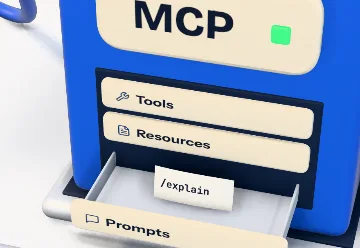
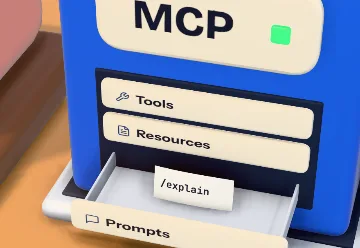
Keep the page inside a phone's memory budget, and let the site build with the lab in it
Batches keep indexed parts indexed, rounded boxes default to two segments a corner, and the new places' small repeated
parts, segment counts and bevels are lighter, as are the islands' and the long belt's legs: geometry is back under
100 MB. The lab is prerendered as an empty shell so the static build passes. The finale's stop signs stand apart, and
the MCP trip's thumbnail is rebaked from the new desk.

diff --git a/src/lib/journey/sky/tower.ts b/src/lib/journey/sky/tower.ts
@@ -74,7 +74,7 @@ function petal(h: number, w: number) {
 	s.bezierCurveTo(w * 0.32, h * 0.86, w * 0.78, h * 0.5, w * 0.42, h * 0.28);
 	s.bezierCurveTo(w * 0.3, h * 0.16, w * 0.5, h * 0.06, w / 2, 0);
 	s.closePath();
-	return extrude(s, 0.36, 0.12, 4, 28);
+	return extrude(s, 0.36, 0.12, 2, 9);
 }
 
 export class Tower {
@@ -94,7 +94,7 @@ export class Tower {
 
 		// The plinth it stands on: a low silver step with a brass bead round it.
 		this.lathe(b, [[SHAFT_R, -0.42], [R + 1.0, -0.42], [R + 1.15, -0.32], [R + 1.15, -0.1], [R + 1.1, 0.02], [SHAFT_R, 0.02]], c.silver);
-		b.add(new THREE.TorusGeometry(R + 1.15, 0.05, 8, 128), c.brass, { p: [0, -0.1, 0], r: [Math.PI / 2, 0, 0] });
+		b.add(new THREE.TorusGeometry(R + 1.15, 0.05, 8, 64), c.brass, { p: [0, -0.1, 0], r: [Math.PI / 2, 0, 0] });
 
 		for (let f = 0; f <= N; f++) {
 			const y = f * H;
@@ -103,7 +103,7 @@ export class Tower {
 			const t = roof ? ROOF - N * H : SLAB;
 			const y0 = roof ? y : y - t / 2;
 			this.lathe(b, [[SHAFT_R + 0.04, y0], [R + 0.32, y0], [R + 0.42, y0 + 0.07], [R + 0.42, y0 + t - 0.07], [R + 0.32, y0 + t], [SHAFT_R + 0.04, y0 + t]], c.silver);
-			b.add(new THREE.TorusGeometry(R + 0.43, 0.05, 8, 128), c.brass, { p: [0, y0 + t / 2, 0], r: [Math.PI / 2, 0, 0] });
+			b.add(new THREE.TorusGeometry(R + 0.43, 0.05, 8, 64), c.brass, { p: [0, y0 + t / 2, 0], r: [Math.PI / 2, 0, 0] });
 			if (roof) break;
 			const top = y + H - SLAB / 2;
 			const bottom = y + SLAB / 2;
@@ -112,14 +112,14 @@ export class Tower {
 			b.add(new THREE.RingGeometry(SHAFT_R + 0.04, R - 0.1, 96), floorFinish, { p: [0, bottom + 0.005, 0], r: [-Math.PI / 2, 0, 0] });
 			b.add(new THREE.RingGeometry(SHAFT_R + 0.5, SHAFT_R + 0.62, 96), c.gold, { p: [0, bottom + 0.01, 0], r: [-Math.PI / 2, 0, 0] });
 			// The glass, tinted the cobalt of the racks behind it, all the way round but for the slot.
-			b.add(new THREE.CylinderGeometry(R, R, room, 128, 1, true, SLOT, Math.PI * 2 - 2 * SLOT), c.rackGlass, { p: [0, bottom + room / 2, 0] });
+			b.add(new THREE.CylinderGeometry(R, R, room, 48, 1, true, SLOT, Math.PI * 2 - 2 * SLOT), c.rackGlass, { p: [0, bottom + room / 2, 0] });
 			// The mullions, midnight-blue enamel, each with a brass cap and foot; the slot's two are silver.
 			const mullions = 26;
 			for (let i = 0; i < mullions; i++) {
 				const a = ((i + 0.5) / mullions) * Math.PI * 2;
 				if (inSlot(a, 0.05)) continue;
-				b.add(rbox(0.46, room, 0.5, 0.14), c.midnight, { p: round(R + 0.08, a, bottom + room / 2), r: [0, a, 0] });
-				for (const at of [bottom + 0.08, top - 0.08]) b.add(rbox(0.56, 0.12, 0.58, 0.04), c.brass, { p: round(R + 0.08, a, at), r: [0, a, 0] });
+				b.add(new THREE.BoxGeometry(0.46, room, 0.5), c.midnight, { p: round(R + 0.08, a, bottom + room / 2), r: [0, a, 0] });
+				for (const at of [bottom + 0.08, top - 0.08]) b.add(new THREE.BoxGeometry(0.56, 0.12, 0.58), c.brass, { p: round(R + 0.08, a, at), r: [0, a, 0] });
 			}
 			// The racks: a ring round the room, their doors lit, none in front of the shaft.
 			const rackH = room - 0.75;
@@ -129,21 +129,21 @@ export class Tower {
 				// Leave the ground floor's front open for the lanes coming in.
 				if (f === 0 && inSlot(a, 0.6)) continue;
 				const mid = bottom + 0.12 + rackH / 2;
-				b.add(rbox(RACK.w, rackH, RACK.d, 0.06), rackBody, { p: round(RACK.r, a, mid), r: [0, a, 0] });
+				b.add(rbox(RACK.w, rackH, RACK.d, 0.06, 1), rackBody, { p: round(RACK.r, a, mid), r: [0, a, 0] });
 				// A lit door on both faces: one out through the glass, one into the room round the shaft.
 				b.add(new THREE.PlaneGeometry(RACK.w - 0.18, rackH - 0.22), this.doors, { p: round(RACK.r + RACK.d / 2 + 0.006, a, mid), r: [0, a, 0] });
 				b.add(new THREE.PlaneGeometry(RACK.w - 0.18, rackH - 0.22), this.doors, { p: round(RACK.r - RACK.d / 2 - 0.006, a, mid), r: [0, a + Math.PI, 0] });
-				b.add(rbox(0.05, rackH * 0.5, 0.06, 0.02), c.brass, { p: round(RACK.r + RACK.d / 2 + 0.04, a + 0.085, mid), r: [0, a, 0] });
-				b.add(rbox(RACK.w, 0.1, RACK.d + 0.04, 0.03), c.silver, { p: round(RACK.r, a, bottom + 0.06), r: [0, a, 0] });
+				b.add(rbox(0.05, rackH * 0.5, 0.06, 0.02, 1), c.brass, { p: round(RACK.r + RACK.d / 2 + 0.04, a + 0.085, mid), r: [0, a, 0] });
+				b.add(rbox(RACK.w, 0.1, RACK.d + 0.04, 0.03, 1), c.silver, { p: round(RACK.r, a, bottom + 0.06), r: [0, a, 0] });
 			}
 			// Brass cable trays under the ceiling: a ring over the racks and spokes in to the shaft.
 			const tray = top - 0.32;
-			b.add(new THREE.TorusGeometry(RACK.r, 0.07, 8, 96), c.brass, { p: [0, tray, 0], r: [Math.PI / 2, 0, 0] });
-			b.add(new THREE.TorusGeometry(RACK.r - 0.35, 0.07, 8, 96), c.brass, { p: [0, tray, 0], r: [Math.PI / 2, 0, 0] });
+			b.add(new THREE.TorusGeometry(RACK.r, 0.07, 8, 64), c.brass, { p: [0, tray, 0], r: [Math.PI / 2, 0, 0] });
+			b.add(new THREE.TorusGeometry(RACK.r - 0.35, 0.07, 8, 64), c.brass, { p: [0, tray, 0], r: [Math.PI / 2, 0, 0] });
 			for (let i = 0; i < 6; i++) {
 				const a = (i / 6) * Math.PI * 2 + Math.PI / 6;
 				const span = RACK.r - SHAFT_R - 0.2;
-				b.add(rbox(0.14, 0.06, span, 0.02), c.brass, { p: round(SHAFT_R + 0.1 + span / 2, a, tray), r: [0, a, 0] });
+				b.add(rbox(0.14, 0.06, span, 0.02, 1), c.brass, { p: round(SHAFT_R + 0.1 + span / 2, a, tray), r: [0, a, 0] });
 			}
 			// The ceiling's lamps, a ring of them between the trays and the shaft.
 			for (let i = 0; i < 10; i++) {
@@ -155,13 +155,13 @@ export class Tower {
 		// The slot's silver frame, from the plinth to the roof, either side of the gap in the glass.
 		for (const s of [-1, 1]) {
 			const a = s * (SLOT + 0.012);
-			b.add(rbox(0.26, ROOF, 0.56, 0.08), c.silver, { p: round(R + 0.12, a, ROOF / 2), r: [0, a, 0] });
+			b.add(rbox(0.26, ROOF, 0.56, 0.08, 2), c.silver, { p: round(R + 0.12, a, ROOF / 2), r: [0, a, 0] });
 		}
 
 		// The shaft: an open chrome frame at its foot, where the lanes come in, and a glass tube from there to the roof,
 		// ringed in chrome at every floor.
 		const tubeH = ROOF - FRAME;
-		b.add(new THREE.CylinderGeometry(SHAFT_R, SHAFT_R, tubeH, 64, 1, true), c.glass, { p: [0, FRAME + tubeH / 2, 0] });
+		b.add(new THREE.CylinderGeometry(SHAFT_R, SHAFT_R, tubeH, 48, 1, true), c.glass, { p: [0, FRAME + tubeH / 2, 0] });
 		for (const y of [FRAME, ...Array.from({ length: N - 1 }, (_, f) => (f + 1) * H)]) b.add(new THREE.TorusGeometry(SHAFT_R + 0.03, 0.08, 10, 64), c.chrome, { p: [0, y, 0], r: [Math.PI / 2, 0, 0] });
 		b.add(new THREE.TorusGeometry(SHAFT_R + 0.06, 0.09, 10, 64), c.chrome, { p: [0, 0.1, 0], r: [Math.PI / 2, 0, 0] });
 		// Three posts carry the tube over the open foot: either side and behind, clear of the lanes coming in at the front.
@@ -174,8 +174,8 @@ export class Tower {
 		// Petals in two rings, tall ones behind and short ones before them in the gaps, so the crown reads as one solid ring
 		// of flame from anywhere; none over the slot, so the lanes are seen going up into the pedestal.
 		const petals = 26;
-		b.add(new THREE.TorusGeometry(P.CROWN.r, 0.2, 14, 160), c.gold, { p: [0, ROOF + 0.18, 0], r: [Math.PI / 2, 0, 0] });
-		b.add(new THREE.TorusGeometry(P.CROWN.r - 0.55, 0.12, 12, 160), c.gold, { p: [0, ROOF + 0.12, 0], r: [Math.PI / 2, 0, 0] });
+		b.add(new THREE.TorusGeometry(P.CROWN.r, 0.2, 10, 64), c.gold, { p: [0, ROOF + 0.18, 0], r: [Math.PI / 2, 0, 0] });
+		b.add(new THREE.TorusGeometry(P.CROWN.r - 0.55, 0.12, 10, 64), c.gold, { p: [0, ROOF + 0.12, 0], r: [Math.PI / 2, 0, 0] });
 		const tall = petal(P.CROWN.h, 1.25);
 		const short = petal(P.CROWN.h * 0.68, 1.0);
 		for (let i = 0; i < petals; i++) {
@@ -190,7 +190,7 @@ export class Tower {
 
 	/** A turned part round the tower's axis, from an outline of (radius, height) pairs: out along its underside, up its edge, in across its top. */
 	private lathe(b: Batch, outline: [number, number][], mat: THREE.Material) {
-		b.add(new THREE.LatheGeometry(outline.map(([r, y]) => new THREE.Vector2(r, y)), 128), mat);
+		b.add(new THREE.LatheGeometry(outline.map(([r, y]) => new THREE.Vector2(r, y)), 72), mat);
 	}
 
 	/** The racks' lights run on and breathe; brighter while the work is heavy. */

diff --git a/src/lib/journey/sky/gatehouse.ts b/src/lib/journey/sky/gatehouse.ts
@@ -83,14 +83,14 @@ export class Gatehouse {
 		outline.lineTo(W / 2, WALL);
 		outline.lineTo(-W / 2, WALL);
 		outline.closePath();
-		b.add(extrude(outline, D, 0.08, 3, 48), c.jade);
+		b.add(extrude(outline, D, 0.08, 2, 24), c.jade);
 		// A brass plinth band along its foot, and a cornice along its top.
 		b.add(rbox(W + 0.3, 0.32, D + 0.3, 0.08), c.brass, { p: [0, 0.16, 0] });
 		b.add(rbox(W + 0.5, 0.26, D + 0.5, 0.08), c.brass, { p: [0, WALL + 0.13, 0] });
 
 		// The archivolt, front and back: a thick brass band round the arch, brass jambs down to the floor, rivets all round.
 		for (const z of [D / 2 + 0.12, -D / 2 - 0.12]) {
-			b.add(new THREE.TorusGeometry(DOOR.w / 2 + 0.28, 0.26, 16, 72, Math.PI), c.brass, { p: [0, DOOR.spring, z] });
+			b.add(new THREE.TorusGeometry(DOOR.w / 2 + 0.28, 0.26, 10, 64, Math.PI), c.brass, { p: [0, DOOR.spring, z] });
 			for (const s of [-1, 1]) b.add(new THREE.CylinderGeometry(0.26, 0.3, DOOR.spring, 24), c.brass, { p: [s * (DOOR.w / 2 + 0.28), DOOR.spring / 2, z] });
 			for (let i = 0; i <= 14; i++) {
 				const a = (i / 14) * Math.PI;
@@ -105,15 +105,15 @@ export class Gatehouse {
 		ped.moveTo(-3.2, 0);
 		ped.quadraticCurveTo(0, 2.2, 3.2, 0);
 		ped.closePath();
-		b.add(extrude(ped, 1.2, 0.08, 3, 32), c.jadeDeep, { p: [0, WALL + 0.26, D / 2 - 0.6] });
-		b.add(new THREE.TorusGeometry(0.62, 0.1, 12, 48), c.brass, { p: [0, WALL + 0.85, D / 2 + 0.06] });
+		b.add(extrude(ped, 1.2, 0.08, 2, 24), c.jadeDeep, { p: [0, WALL + 0.26, D / 2 - 0.6] });
+		b.add(new THREE.TorusGeometry(0.62, 0.1, 10, 48), c.brass, { p: [0, WALL + 0.85, D / 2 + 0.06] });
 		b.add(new THREE.CylinderGeometry(0.52, 0.52, 0.12, 40), c.brass, { p: [0, WALL + 0.85, D / 2 + 0.02], r: [Math.PI / 2, 0, 0] });
 		b.add(new THREE.CylinderGeometry(0.3, 0.3, 0.16, 32), c.jade, { p: [0, WALL + 0.85, D / 2 + 0.06], r: [Math.PI / 2, 0, 0] });
 
 		// The glass dome behind it, on a brass drum, with brass ribs and a finial.
 		const domeAt = new THREE.Vector3(0, WALL + 0.26, -0.3);
-		b.add(new THREE.CylinderGeometry(2.1, 2.1, 0.5, 64), c.brass, { p: [domeAt.x, domeAt.y + 0.25, domeAt.z] });
-		b.add(new THREE.SphereGeometry(2.0, 48, 20, 0, Math.PI * 2, 0, Math.PI / 2), c.glass, { p: [domeAt.x, domeAt.y + 0.5, domeAt.z] });
+		b.add(new THREE.CylinderGeometry(2.1, 2.1, 0.5, 48), c.brass, { p: [domeAt.x, domeAt.y + 0.25, domeAt.z] });
+		b.add(new THREE.SphereGeometry(2.0, 28, 14, 0, Math.PI * 2, 0, Math.PI / 2), c.glass, { p: [domeAt.x, domeAt.y + 0.5, domeAt.z] });
 		for (let i = 0; i < 8; i++) {
 			const rib = new THREE.TorusGeometry(2.0, 0.05, 8, 32, Math.PI / 2);
 			b.add(rib, c.brass, { p: [domeAt.x, domeAt.y + 0.5, domeAt.z], r: [0, (i / 8) * Math.PI * 2, Math.PI / 2] });
@@ -130,7 +130,7 @@ export class Gatehouse {
 			b.add(extrude(windowPanel(0.9, 1.9), 0.08, 0.02, 2, 12), c.amberWindow, { p: [x, 1.4, z + TOWER.r - 0.02] });
 			b.add(new THREE.TorusGeometry(0.47, 0.06, 8, 32, Math.PI), c.brass, { p: [x, 1.4 + 1.9 - 0.45, z + TOWER.r + 0.02] });
 			b.add(new THREE.CylinderGeometry(TOWER.r + 0.15, TOWER.r + 0.15, 0.3, 48), c.brass, { p: [x, TOWER.h + 0.15, z] });
-			b.add(new THREE.SphereGeometry(TOWER.r, 40, 18, 0, Math.PI * 2, 0, Math.PI / 2), c.brass, { p: [x, TOWER.h + 0.3, z] });
+			b.add(new THREE.SphereGeometry(TOWER.r, 28, 14, 0, Math.PI * 2, 0, Math.PI / 2), c.brass, { p: [x, TOWER.h + 0.3, z] });
 			b.add(new THREE.CylinderGeometry(0.06, 0.1, 0.7, 12), c.gold, { p: [x, TOWER.h + 0.3 + TOWER.r + 0.3, z] });
 			b.add(new THREE.SphereGeometry(0.2, 16, 12), c.gold, { p: [x, TOWER.h + 0.3 + TOWER.r + 0.7, z] });
 			// A round window high on the front, and an arched one low, between the arch and the tower.

diff --git a/src/lib/journey/sky/proving.ts b/src/lib/journey/sky/proving.ts
@@ -30,10 +30,10 @@ export class Proving {
 		const ground = new Batch();
 
 		// The deck: mint enamel on a porcelain drum that tapers under it, a gold edge, a brass railing.
-		b.add(new THREE.CylinderGeometry(R, R, 0.3, 96), c.mintEnamel, { p: [0, -0.15, 0] });
-		b.add(new THREE.CylinderGeometry(R + 0.12, R - 0.4, 0.9, 96), c.porcelain, { p: [0, -0.75, 0] });
-		b.add(new THREE.TorusGeometry(R + 0.06, 0.08, 10, 128), c.gold, { p: [0, -0.32, 0], r: [Math.PI / 2, 0, 0] });
-		b.add(new THREE.TorusGeometry(R - 0.25, 0.04, 6, 128), c.brass, { p: [0, 0.75, 0], r: [Math.PI / 2, 0, 0] });
+		b.add(new THREE.CylinderGeometry(R, R, 0.3, 48), c.mintEnamel, { p: [0, -0.15, 0] });
+		b.add(new THREE.CylinderGeometry(R + 0.12, R - 0.4, 0.9, 48), c.porcelain, { p: [0, -0.75, 0] });
+		b.add(new THREE.TorusGeometry(R + 0.06, 0.08, 10, 64), c.gold, { p: [0, -0.32, 0], r: [Math.PI / 2, 0, 0] });
+		b.add(new THREE.TorusGeometry(R - 0.25, 0.04, 6, 64), c.brass, { p: [0, 0.75, 0], r: [Math.PI / 2, 0, 0] });
 		for (let i = 0; i < 40; i++) {
 			const a = (i / 40) * Math.PI * 2;
 			b.add(new THREE.CylinderGeometry(0.03, 0.03, 0.75, 6), c.brass, { p: [(R - 0.25) * Math.cos(a), 0.38, (R - 0.25) * Math.sin(a)] });
@@ -47,7 +47,7 @@ export class Proving {
 		for (let i = 0; i < 4; i++) span(ground, corners[i], corners[(i + 1) % 4], 1.4, pier, 'pier');
 
 		// The course: a white oval track inside a white ring, a dashed line between, all let into the enamel.
-		const line = (r: number, w = 0.12) => b.add(new THREE.RingGeometry(r - w / 2, r + w / 2, 128), c.white, { p: [0, 0.006, 0], r: [-Math.PI / 2, 0, 0] });
+		const line = (r: number, w = 0.12) => b.add(new THREE.RingGeometry(r - w / 2, r + w / 2, 72), c.white, { p: [0, 0.006, 0], r: [-Math.PI / 2, 0, 0] });
 		line(R - 0.9);
 		line(R - 2.4);
 		for (let i = 0; i < 36; i++) {
@@ -95,7 +95,7 @@ export class Proving {
 			b.add(extrude(arch(0.5, 1.1), 0.06, 0.02, 1, 12), c.amberWindow, { p: [O.x + 1.92 * Math.sin(a), 0.9, O.z + 1.92 * Math.cos(a)], r: [0, a, 0] });
 			b.add(new THREE.SphereGeometry(0.06, 8, 6), c.gold, { p: [O.x + 2.0 * Math.sin(a + 0.39), 2.35, O.z + 2.0 * Math.cos(a + 0.39)] });
 		}
-		b.add(new THREE.SphereGeometry(1.95, 48, 20, 0, Math.PI * 2, 0, Math.PI / 2), c.violet, { p: [O.x, 2.7, O.z] });
+		b.add(new THREE.SphereGeometry(1.95, 28, 14, 0, Math.PI * 2, 0, Math.PI / 2), c.violet, { p: [O.x, 2.7, O.z] });
 		for (let i = 0; i < 8; i++) b.add(new THREE.TorusGeometry(1.96, 0.04, 6, 32, Math.PI / 2), c.gold, { p: [O.x, 2.7, O.z], r: [0, (i / 8) * Math.PI * 2, Math.PI / 2] });
 		b.add(new THREE.CylinderGeometry(0.28, 0.4, 2.4, 24), c.brass, { p: [O.x - 0.7, 4.3, O.z + 0.6], r: [0.55, 0, 0.6] });
 		b.add(new THREE.TorusGeometry(0.42, 0.08, 10, 24), c.gold, { p: [O.x - 1.35, 5.0, O.z + 1.15], r: [0.55, 0, 0.6] });

diff --git a/src/lib/journey/sky/foundry.ts b/src/lib/journey/sky/foundry.ts
@@ -76,7 +76,7 @@ export class Foundry {
 		// The furnace block on the hall's provider end: a copper arch round a deep mouth of fire, a copper dome over it.
 		const fx = HALL.x + HALL.w / 2 + 0.9;
 		b.add(rbox(2.0, 4.2, 4.0, 0.16), c.iron, { p: [fx, 2.1, 0] });
-		b.add(new THREE.TorusGeometry(1.35, 0.2, 14, 40, Math.PI), c.copper, { p: [fx + 1.02, 2.1, 0], r: [0, Math.PI / 2, 0] });
+		b.add(new THREE.TorusGeometry(1.35, 0.2, 10, 40, Math.PI), c.copper, { p: [fx + 1.02, 2.1, 0], r: [0, Math.PI / 2, 0] });
 		for (const s of [-1, 1]) b.add(rbox(0.3, 2.1, 0.4, 0.06), c.copper, { p: [fx + 1.02, 1.05, s * 1.35] });
 		for (let i = 0; i <= 10; i++) {
 			const a = (i / 10) * Math.PI;
@@ -84,7 +84,7 @@ export class Foundry {
 		}
 		b.add(extrude(arch(2.3, 3.2), 0.06, 0.02, 2, 24), this.glow, { p: [fx + 1.0, 0, 0], r: [0, Math.PI / 2, 0] });
 		b.add(new THREE.CylinderGeometry(1.4, 1.5, 0.4, 32), c.copper, { p: [fx, 4.4, 0] });
-		b.add(new THREE.SphereGeometry(1.35, 32, 14, 0, Math.PI * 2, 0, Math.PI / 2), c.copper, { p: [fx, 4.6, 0] });
+		b.add(new THREE.SphereGeometry(1.35, 28, 14, 0, Math.PI * 2, 0, Math.PI / 2), c.copper, { p: [fx, 4.6, 0] });
 		b.add(new THREE.SphereGeometry(0.18, 12, 8), c.gold, { p: [fx, 6.05, 0] });
 
 		// The stacks, iron banded in copper, and the big copper pipes bending between the hall and the stacks.
@@ -133,7 +133,7 @@ export class Foundry {
 		for (const dx of [-0.8, 0.8]) car.add(new THREE.CylinderGeometry(0.16, 0.16, 1.1, 14), c.iron, { p: [dx, 0.14, 0], r: [Math.PI / 2, 0, 0] });
 		car.add(capsule, c.glass, { p: [0, 1.15, 0] });
 		car.add(new THREE.TorusGeometry(0.72, 0.05, 8, 32), c.brass, { p: [0, 1.15, 0], r: [0, Math.PI / 2, 0] });
-		const brain = new THREE.SphereGeometry(0.48, 32, 20).scale(1.25, 0.8, 0.95);
+		const brain = new THREE.SphereGeometry(0.48, 28, 14).scale(1.25, 0.8, 0.95);
 		car.add(brain, new THREE.MeshPhysicalMaterial({ color: '#1d44b8', roughness: 0.25, clearcoat: 1, emissive: '#2a52d8', emissiveIntensity: 0.3 }), { p: [0, 1.12, 0] });
 		for (let i = 0; i < 5; i++) car.add(new THREE.TorusGeometry(0.34 - i * 0.03, 0.05, 8, 24, Math.PI * 1.2), c.gold, { p: [-0.35 + i * 0.18, 1.18, 0.12 - i * 0.05], r: [Math.PI / 2, 0.3 * i, 0] });
 		this.carriage.add(car.build('carriage'));

diff --git a/src/lib/journey/kit/batch.ts b/src/lib/journey/kit/batch.ts
@@ -17,10 +17,12 @@ const e = new THREE.Euler();
  * little parts costs a handful of draw calls, so modelling detail stays cheap.
  */
 export class Batch {
-	private parts = new Map<THREE.Material, THREE.BufferGeometry[]>();
+	private parts = new Map<THREE.Material, { indexed: THREE.BufferGeometry[]; loose: THREE.BufferGeometry[] }>();
 
 	add(geo: THREE.BufferGeometry, mat: THREE.Material, { p = [0, 0, 0], r = [0, 0, 0], s = 1 }: Place = {}) {
-		const g = geo.index ? geo.toNonIndexed() : geo.clone();
+		// Indexed parts stay indexed: a part's vertices are shared between its triangles, and merged that way it costs
+		// a third of the memory. They're merged apart from the parts that have no index.
+		const g = geo.clone();
 		for (const key of Object.keys(g.attributes)) {
 			if (key !== 'position' && key !== 'normal' && key !== 'uv') g.deleteAttribute(key);
 		}
@@ -30,23 +32,26 @@ export class Batch {
 		const scale = typeof s === 'number' ? new THREE.Vector3(s, s, s) : new THREE.Vector3(...s);
 		m.compose(new THREE.Vector3(...p), q.setFromEuler(e.set(...r)), scale);
 		g.applyMatrix4(m);
-		const list = this.parts.get(mat);
-		if (list) list.push(g);
-		else this.parts.set(mat, [g]);
+		let lists = this.parts.get(mat);
+		if (!lists) this.parts.set(mat, (lists = { indexed: [], loose: [] }));
+		(g.index ? lists.indexed : lists.loose).push(g);
 		return this;
 	}
 
 	build(name = 'batch') {
 		const group = new THREE.Group();
 		group.name = name;
-		for (const [mat, list] of this.parts) {
-			const merged = mergeGeometries(list, false);
-			if (!merged) continue;
-			const mesh = new THREE.Mesh(merged, mat);
-			mesh.castShadow = true;
-			mesh.receiveShadow = true;
-			group.add(mesh);
-			list.forEach((g) => g.dispose());
+		for (const [mat, lists] of this.parts) {
+			for (const list of [lists.indexed, lists.loose]) {
+				if (!list.length) continue;
+				const merged = mergeGeometries(list, false);
+				if (!merged) continue;
+				const mesh = new THREE.Mesh(merged, mat);
+				mesh.castShadow = true;
+				mesh.receiveShadow = true;
+				group.add(mesh);
+				list.forEach((g) => g.dispose());
+			}
 		}
 		this.parts.clear();
 		return group;

diff --git a/src/lib/journey/sky/hall.ts b/src/lib/journey/sky/hall.ts
@@ -111,7 +111,7 @@ export class Hall {
 				const z = H.from - (LEN * (i + 0.5)) / 5;
 				for (const face of [-1, 1]) {
 					const fx = x + face * (THICK / 2 + 0.02);
-					b.add(extrude(archShape(1.15, 2.3), 0.06, 0.015, 2, 16), c.amberWindow, { p: [fx, 1.1, z], r: [0, (face * Math.PI) / 2, 0] });
+					b.add(extrude(archShape(1.15, 2.3), 0.06, 0.015, 2, 8), c.amberWindow, { p: [fx, 1.1, z], r: [0, (face * Math.PI) / 2, 0] });
 					b.add(new THREE.TorusGeometry(0.62, 0.06, 8, 24, Math.PI), c.brass, { p: [fx + face * 0.03, 1.1 + 2.3 - 0.575, z], r: [0, (face * Math.PI) / 2, 0] });
 				}
 				// A brass sconce on the inner face, between this window and the next.
@@ -155,7 +155,7 @@ export class Hall {
 		end.lineTo(-rx, H.wall);
 		end.closePath();
 		// Tiled like the long walls: the extruder lays its face's texture one unit to a repeat, the walls' every 0.55.
-		const endWall = extrude(end, 0.5, 0.06, 2, 32);
+		const endWall = extrude(end, 0.5, 0.06, 2, 24);
 		const uv = endWall.attributes.uv;
 		for (let i = 0; i < uv.count; i++) uv.setXY(i, uv.getX(i) / 0.55, uv.getY(i) / 0.55);
 		b.add(endWall, rose, { p: [0, 0, H.to + 0.3] });
@@ -246,7 +246,7 @@ export class Hall {
 		body.lineTo(D / 2, BH);
 		body.lineTo(-D / 2, BH);
 		body.closePath();
-		b.add(extrude(body, W, 0.06, 3, 24), m.cream, { p: [at, -BELT_Y + 0.12, 0], r: [0, Math.PI / 2, 0] });
+		b.add(extrude(body, W, 0.06, 2, 24), m.cream, { p: [at, -BELT_Y + 0.12, 0], r: [0, Math.PI / 2, 0] });
 		b.add(rbox(0.06, 1.2, 1.3, 0.02), m.recess, { p: [at - W / 2 + 0.2, -BELT_Y + 0.62, 0] });
 		// The roller on top, brass, in two cheeks; the slip of text curling off it.
 		for (const s of [-1, 1]) b.add(rbox(0.5, 0.6, 0.12, 0.04), m.cream, { p: [at, -BELT_Y + 0.12 + BH + 0.25, s * 0.62] });

diff --git a/src/lib/journey/sky/aqueduct.ts b/src/lib/journey/sky/aqueduct.ts
@@ -163,7 +163,7 @@ export class Aqueduct {
 			b.add(new THREE.TubeGeometry(arm, 40, 0.07, 10), c.brass);
 			b.add(new THREE.CylinderGeometry(0.11, 0.11, 0.3, 16), c.gold, { p: [from.x, armY, from.z] });
 			// The reader: a brass shade over both lanes, a lamp under it.
-			b.add(new THREE.SphereGeometry(0.55, 32, 12, 0, Math.PI * 2, 0, Math.PI / 2), c.brass, { p: [reach.x, armY - 0.8, reach.z] });
+			b.add(new THREE.SphereGeometry(0.55, 28, 12, 0, Math.PI * 2, 0, Math.PI / 2), c.brass, { p: [reach.x, armY - 0.8, reach.z] });
 			const lamp = new THREE.MeshStandardMaterial({ color: '#fff1cf', emissive: '#ffc94d', emissiveIntensity: 0.8 });
 			b.add(new THREE.CylinderGeometry(0.42, 0.42, 0.05, 32), lamp, { p: [reach.x, armY - 0.82, reach.z] });
 			this.readers.push({ lamp, at: p.clone() });
@@ -220,7 +220,7 @@ export function span(b: Batch, a: THREE.Vector3, e: THREE.Vector3, thick: number
 	s.absarc(0, -D, r, 0, Math.PI, false);
 	s.lineTo(-L / 2, -D);
 	s.closePath();
-	const g = extrude(s, thick, 0.08, 3, 32);
+	const g = extrude(s, thick, 0.08, 2, 24);
 	g.applyMatrix4(new THREE.Matrix4().makeShear(slope, 0, 0, 0, 0, 0));
 	const yaw = Math.atan2(-flat.z, flat.x);
 	const mid = a.clone().add(e).multiplyScalar(0.5);

diff --git a/src/lib/journey/sky/remote.ts b/src/lib/journey/sky/remote.ts
@@ -51,7 +51,7 @@ export class RemoteTowers {
 				b.add(extrude(arch(0.42, 1.2), 0.05, 0.015, 1, 10), c.amberWindow, { p: [at.x + 1.16 * Math.sin(w), at.y + 0.8, at.z + 1.16 * Math.cos(w)], r: [0, w, 0] });
 			}
 			b.add(new THREE.CylinderGeometry(1.32, 1.32, 0.22, 40), c.gold, { p: [at.x, at.y + 2.9, at.z] });
-			b.add(new THREE.SphereGeometry(1.15, 40, 16, 0, Math.PI * 2, 0, Math.PI / 2), t, { p: [at.x, at.y + 3.0, at.z] });
+			b.add(new THREE.SphereGeometry(1.15, 28, 14, 0, Math.PI * 2, 0, Math.PI / 2), t, { p: [at.x, at.y + 3.0, at.z] });
 			for (let i = 0; i < 8; i++) b.add(new THREE.TorusGeometry(1.16, 0.035, 6, 24, Math.PI / 2), c.gold, { p: [at.x, at.y + 3.0, at.z], r: [0, (i / 8) * Math.PI * 2, Math.PI / 2] });
 			b.add(new THREE.CylinderGeometry(0.1, 0.16, 0.5, 12), c.gold, { p: [at.x, at.y + 4.35, at.z] });
 			b.add(new THREE.SphereGeometry(0.14, 12, 8), c.gold, { p: [at.x, at.y + 4.7, at.z] });

diff --git a/src/lib/journey/props/island.ts b/src/lib/journey/props/island.ts
@@ -8,12 +8,12 @@ export function createIsland(outline: [number, number][], thickness = 0.62) {
 	const m = mats();
 	const b = new Batch();
 	const top = blobShape(outline);
-	const lip = extrude(top, thickness, 0.17, 7, 12);
+	const lip = extrude(top, thickness, 0.17, 4, 10);
 	b.add(lip, m.porcelain, { r: [-Math.PI / 2, 0, 0], p: [0, -thickness / 2, 0] });
 
 	// A second, narrower slab below the lip: the underside tapers away instead of ending flat.
 	const inner = blobShape(outline.map(([x, y]) => shrink(x, y, outline, 0.86)));
-	const under = extrude(inner, 0.5, 0.2, 6, 12);
+	const under = extrude(inner, 0.5, 0.2, 3, 10);
 	b.add(under, m.porcelain, { r: [-Math.PI / 2, 0, 0], p: [0, -thickness - 0.14, 0] });
 
 	const group = b.build('island');

diff --git a/src/lib/journey/sky/capsule.ts b/src/lib/journey/sky/capsule.ts
@@ -94,7 +94,7 @@ export class Capsule {
 		lock.add(new THREE.CircleGeometry(0.027, 20), m.recess, { p: [0, 0.02, 0.073] });
 		this.lockBody.add(lock.build('lock-body'));
 		const sh = new Batch();
-		sh.add(new THREE.TorusGeometry(0.095, 0.024, 12, 28, Math.PI), m.steel, { p: [0, 0.105, 0] });
+		sh.add(new THREE.TorusGeometry(0.095, 0.024, 10, 28, Math.PI), m.steel, { p: [0, 0.105, 0] });
 		for (const s of [-1, 1]) sh.add(new THREE.CylinderGeometry(0.024, 0.024, 0.11, 14), m.steel, { p: [s * 0.095, 0.05, 0] });
 		this.shackle.add(sh.build('lock-shackle'));
 		this.shackle.position.y = h / 2 - 0.025;

diff --git a/src/lib/journey/kit/geometry.ts b/src/lib/journey/kit/geometry.ts
@@ -8,7 +8,7 @@ const boxes = new Map<string, THREE.BufferGeometry>();
  * Rounded box centred on the origin. The radius is clamped so thin parts never self-intersect.
  * Many parts share a size, and building one is slow, so each caller gets its own copy of a shared original.
  */
-export function rbox(w: number, h: number, d: number, r = 0.04, seg = 3) {
+export function rbox(w: number, h: number, d: number, r = 0.04, seg = 2) {
 	const radius = Math.min(r, Math.min(w, h, d) * 0.49);
 	const key = `${w}/${h}/${d}/${radius}/${seg}`;
 	let box = boxes.get(key);

diff --git a/src/lib/journey/world.ts b/src/lib/journey/world.ts
@@ -466,12 +466,12 @@ export class World {
 			signs: [
 				[P.LAPTOP.at.x - 2.2, 2.6, P.LAPTOP.at.z],
 				[HARNESS_POS.x - 3.0, P.HARNESS.h + 1.0, HARNESS_POS.z],
-				signAt(capsuleAt(4.36), -3.0, 2.6),
+				signAt(capsuleAt(4.62), -3.4, 3.4),
 				tok(TEMPLATE_X + 6, ISLAND_C_Y + 4.2, LINE_Z),
 				[SHAFT_X - 7.5, SEAT_Y + 3, TZ],
 				signAt(DOWN_LANE.getPointAt(0.62).toArray() as V3, 3.4, 2.6),
-				low([-52, -7, 0.7]),
-				low([-27, -5.7, 1]),
+				low([-58, -5, 3]),
+				low([-14, -1.5, 0]),
 				[8.5, 1.4, -5.6]
 			]
 		});
